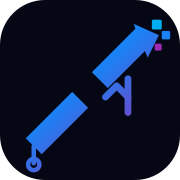
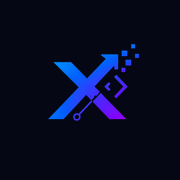
Botones redes

Changed region(s): [[0.0, 0.0, 1.0, 1.0], [0.75, 0.75, 1.0, 1.0], [0.0, 0.0, 0.25, 0.25]]

diff --git a/src/components/BrandMark.tsx b/src/components/BrandMark.tsx
@@ -4,72 +4,14 @@ interface BrandMarkProps {
 
 export function BrandMark({ className = 'h-full w-full' }: BrandMarkProps) {
   return (
-    <svg
-      viewBox="0 0 64 64"
-      fill="none"
-      xmlns="http://www.w3.org/2000/svg"
-      className={className}
+    <img
+      src="/brand-mark.png"
+      alt=""
+      width={128}
+      height={128}
+      className={`object-contain ${className}`}
       aria-hidden="true"
-    >
-      <defs>
-        <linearGradient id="brand-x-gradient" x1="10" y1="8" x2="54" y2="56" gradientUnits="userSpaceOnUse">
-          <stop stopColor="#00AEEF" />
-          <stop offset="0.45" stopColor="#1A82F5" />
-          <stop offset="1" stopColor="#9C27B0" />
-        </linearGradient>
-      </defs>
-
-      <path
-        d="M12 52L28.5 35.5"
-        stroke="url(#brand-x-gradient)"
-        strokeWidth="8"
-        strokeLinecap="butt"
-      />
-      <path
-        d="M12 52V58"
-        stroke="url(#brand-x-gradient)"
-        strokeWidth="1.5"
-        strokeLinecap="round"
-      />
-      <circle cx="12" cy="58.5" r="2" stroke="url(#brand-x-gradient)" strokeWidth="1.5" fill="none" />
-
-      <path
-        d="M52 12L35.5 28.5"
-        stroke="url(#brand-x-gradient)"
-        strokeWidth="8"
-        strokeLinecap="butt"
-      />
-      <path
-        d="M47.5 8.5L56.5 12.5L52.5 20.5"
-        fill="url(#brand-x-gradient)"
-      />
-
-      <rect x="54" y="7" width="3.5" height="3.5" rx="0.5" fill="#00AEEF" />
-      <rect x="57.5" y="11" width="3" height="3" rx="0.5" fill="#1A82F5" />
-      <rect x="55" y="15.5" width="2.5" height="2.5" rx="0.5" fill="#6366F1" />
-      <rect x="58.5" y="18" width="2" height="2" rx="0.5" fill="#9C27B0" />
-      <rect x="52.5" y="19.5" width="1.5" height="1.5" rx="0.5" fill="#00AEEF" opacity="0.85" />
-
-      <path
-        d="M37.5 34.5L41.5 30.5L45.5 34.5"
-        stroke="url(#brand-x-gradient)"
-        strokeWidth="2.5"
-        strokeLinecap="round"
-        strokeLinejoin="round"
-      />
-      <path
-        d="M45.5 28V40"
-        stroke="url(#brand-x-gradient)"
-        strokeWidth="2.5"
-        strokeLinecap="round"
-      />
-      <path
-        d="M41 36.5Q42.5 37.5 43.5 36"
-        stroke="url(#brand-x-gradient)"
-        strokeWidth="1.5"
-        strokeLinecap="round"
-        fill="none"
-      />
-    </svg>
+      decoding="async"
+    />
   )
 }

diff --git a/src/components/Header.tsx b/src/components/Header.tsx
@@ -25,7 +25,7 @@ export function Header({ isDark, onToggleTheme }: HeaderProps) {
       <div className="mx-auto flex h-16 max-w-6xl items-center justify-between px-6">
         <a href="#" className="group flex items-center gap-2.5">
           <motion.div
-            className="brand-mark-shell relative flex h-9 w-9 items-center justify-center overflow-hidden rounded-xl p-1.5"
+            className="brand-mark-shell relative flex h-9 w-9 shrink-0 items-center justify-center rounded-xl"
             whileHover={{ scale: 1.05 }}
           >
             <BrandMark />

diff --git a/index.html b/index.html
@@ -2,7 +2,6 @@
 <html lang="es">
   <head>
     <meta charset="UTF-8" />
-    <link rel="icon" type="image/svg+xml" href="/favicon.svg" />
     <link rel="icon" type="image/png" sizes="32x32" href="/favicon-32.png" />
     <link rel="icon" type="image/png" sizes="16x16" href="/favicon-16.png" />
     <link rel="apple-touch-icon" sizes="180x180" href="/apple-touch-icon.png" />